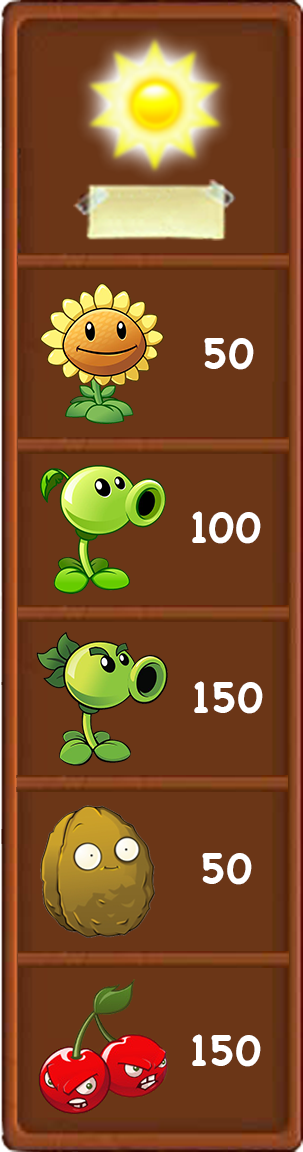
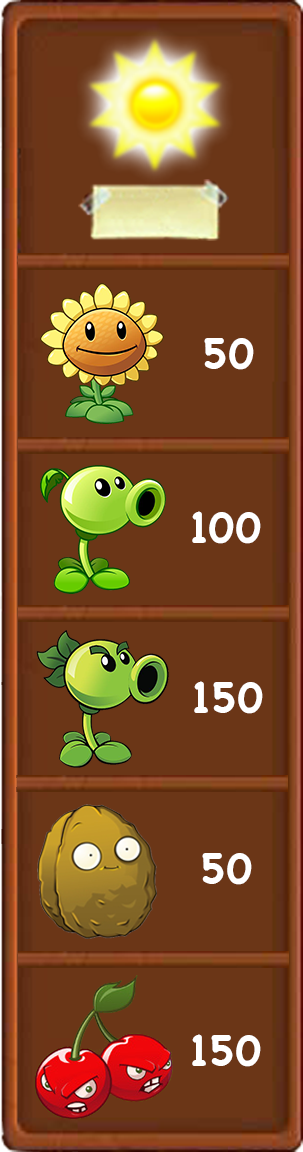
fix positions and more

diff --git a/src/World.java b/src/World.java
@@ -32,8 +32,8 @@ public class World extends JPanel implements ActionListener{
     //img: 0.background, 1.sun, 2.sunflower, 3.peashooter, 4.repeater, 5.sungif, 6.peagif, 7.repgif, 8.zombie, 9.zombief 
     //10.pea_p, 11.wasted, 12.try again, 13.sun_g, 14.pea_g, 15.rep_g, 16.win, 17.play again, 18.brain, 19.pea_r, 
     //20.zombief2, 21.shovel, 22.shovel1, 23.shovel2, 24.progress1, 25.progress2, 26.progress3, 27.progress4
-
-    //28.hugewave, 29.finalwave, 30.cherry, 31.powie, 32.cherry_g 33. Flying Zombie
+    //28.hugewave, 29.finalwave, 30.cherry, 31.powie, 32.cherry_g, 33.zombie_fly, 34.background_menu, 
+    //35.wallnut, 36.wallnut_g, 37.wallgif_full, 38.wallgif_half
     private Image[] img = new Image[39];
 
     private Toolkit t = Toolkit.getDefaultToolkit();
@@ -60,7 +60,7 @@ public class World extends JPanel implements ActionListener{
     public World(){
         timer = new Timer(25, this); //set up timer for 25 milliseconds
 
-        try{ //load image menu
+        try{ //load main menu
             img[0]=Toolkit.getDefaultToolkit().getImage(getClass().getResource("Assets/image/Menu.jpg"));
         }catch(Exception ex){
             ex.printStackTrace();
@@ -107,41 +107,27 @@ public class World extends JPanel implements ActionListener{
         super.paintComponent(g);
         
         if(!start){
+            //draw main menu
             g.drawImage(img[0], 0, 0, 1024, 625, this);
             
         }else{
-            
             Graphics2D g2 = (Graphics2D) g;
+
             //draw background
-            g.drawImage(img[0], 0, 0, 1024, 626, this);
-            g.drawImage(img[34], 20, 25, 150, 580, this);
+            g.drawImage(img[0], 0, 0, 1024, 625, this);
 
             //draw progress
             xp = Math.round((205.0f/Zombie.getMax())*Zombie.getN());
             yp = Math.round((190.0f/Zombie.getMax())*Zombie.getN());
-            g.drawImage(img[27], 498+205-xp, 586, xp, 16, this); //draw greenbar (max 205 pixels)
-            g.drawImage(img[26], 490, 570, 215, 40, this); //draw bar
+            g.drawImage(img[27], 498+205-xp, 588, xp, 16, this); //draw greenbar (max 205 pixels)
+            g.drawImage(img[26], 490, 572, 215, 40, this); //draw bar
             if(Zombie.getN() <= Zombie.getMax()-5){
-                g.drawImage(img[25], 489, 562, 261, 49, this); //draw flag
+                g.drawImage(img[25], 489, 564, 261, 49, this); //draw flag
             }else{ //raise flag for the last 5 zombies
-                g.drawImage(img[25], 489, 550+Math.round((12.0f/5)*(Zombie.getMax()-Zombie.getN())), 261, 49, this);
+                g.drawImage(img[25], 489, 552+Math.round((12.0f/5)*(Zombie.getMax()-Zombie.getN())), 261, 49, this);
             }
-            g.drawImage(img[24], 675-yp, 572, 35, 38, this); //draw zombie head (485 to 675; max 190 pixels)
+            g.drawImage(img[24], 675-yp, 574, 35, 38, this); //draw zombie head (485 to 675; max 190 pixels)
             
-            //draw black&white plant menu
-            if(player.getCredits()<150){ //suncredits <150
-                g.drawImage(img[15], 40, 433, rwidth+2, rheight+1, this); //draw repeater g
-                if(player.getCredits()<100){ //suncredits <100
-                    g.drawImage(img[14], 41, 320, pwidth+2, pheight, this); //draw peashooter g
-                    if(player.getCredits()<50){ //suncredits <50
-                        g.drawImage(img[13], 42, 196, swidth, sheight, this); //draw sunflower g
-                    }
-                }
-            }
-
-            //draw sunflower points
-            player.draw(g2);
-
             //draw plant
             Iterator<Plant<Integer>> itpl = plants.iterator(); 
             while (itpl.hasNext()){
@@ -155,8 +141,12 @@ public class World extends JPanel implements ActionListener{
                     plant.act();
 
                 }else if(plant.getType().equals(4)){ //wallnut gif
-                        g.drawImage(img[36], xp-(pwidth+2)/2, yp-(pheight+6)/2, pwidth+4, pheight+8, this);
-                        // g.drawImage(img[36], xp-(rwidth+20)/2, yp-(rheight+9)/2, rwidth+26, rheight+13, this);
+                    if(plant.getHealth()>=100){ //wallnut full life
+                        g.drawImage(img[37], xp-(pwidth+2)/2, yp-(pheight+4)/2, pwidth+2, pheight+5, this);
+                    }else{ //wallnut half life
+                        g.drawImage(img[38], xp-(pwidth+2)/2, yp-(pheight+4)/2, pwidth+2, pheight+5, this);
+                    }
+
                 }else if(plant.getType().equals(5)){ //cherrybomb
                     if(plant.getCw()<110){ //enlarge
                         g.drawImage(img[30], xp-plant.getCw()/2-4, yp-plant.getCh()/2-4, plant.getCw(), plant.getCh(), this);
@@ -169,6 +159,7 @@ public class World extends JPanel implements ActionListener{
                             plant.cherrybomb(); //play cherrybomb sound
                             plant.setExplode(); //set explode to true
                             plant.startTimer(); //start waiting thread
+                            Plant.setOcc(i, j); //set spot to empty
                             
                             //kill zombie
                             Iterator<Zombie> itz = zombies.iterator(); 
@@ -182,9 +173,9 @@ public class World extends JPanel implements ActionListener{
                             }
                         }
                         if(plant.isTcherryAlive()){ //waiting thread running
+                            //draw explosion
                             g.drawImage(img[31], xp-150, yp-125, 300, 250, this);
                         }else{ //remove explosion
-                            Plant.setOcc(i, j); //set spot to empty
                             itpl.remove();
                         }
                     }      
@@ -226,7 +217,9 @@ public class World extends JPanel implements ActionListener{
                 Zombie zombie=itz.next();
                 
                 //if (zombie intersects plant) -> eat; else -> move
-                zombie.attack();
+                if(zombie.getType()!=3){ //not flying zombie
+                    zombie.attack();
+                }
 
                 fxp=zombie.getCoorX(); //get zombie x coordinate (float)
                 yp=zombie.getLane(); //get zombie lane (int)
@@ -242,6 +235,7 @@ public class World extends JPanel implements ActionListener{
                     }
                 }else if(zombie.getType()==3){ //flying zombie
                     g.drawImage(img[33], Math.round(fxp), zombie.getCoorY()-10, 103, 120, this);
+                    zombie.move();
                 }
 
                 //check if zombie intersects pea
@@ -299,14 +293,32 @@ public class World extends JPanel implements ActionListener{
                 win=true;
             }
 
+            //draw plant menu
+            g.drawImage(img[34], 15, 22, 150, 580, this);
+
+            //draw sunflower points
+            player.draw(g2);
+
+            //draw black&white plant menu
+            if(player.getCredits()<150){ //suncredits <150
+                g.drawImage(img[15], 33, 339, rwidth+2, rheight+2, this); //draw repeater g
+                g.drawImage(img[32], 30, 512, rwidth+7, rheight+6, this); //draw cherrybomb g
+                if(player.getCredits()<100){ //suncredits <100
+                    g.drawImage(img[14], 34, 255, pwidth+2, pheight, this); //draw peashooter g
+                    if(player.getCredits()<50){ //suncredits <50
+                        g.drawImage(img[13], 34, 164, swidth, sheight, this); //draw sunflower g
+                        g.drawImage(img[36], 32, 426, swidth-1, sheight-2, this); //draw wallnut g
+                    }
+                }
+            }
+
             //draw shovel
             if(!player.getShovel()){ //if shovel is idle
-                g.drawImage(img[22], 173, 549, 70, 70, this);
-                // g.drawImage(image, x, y, width, length, this);
+                g.drawImage(img[22], 171, 548, 70, 70, this);
             }else{ //if shovel is taken
-                g.drawImage(img[23], 173, 549, 70, 70, this);
+                g.drawImage(img[23], 171, 548, 70, 70, this);
                 //draw shovel following mouse position
-                g.drawImage(img[21], mouse.getX(), mouse.getY()-70, 70, 70, this);
+                g.drawImage(img[21], mouse.getX(), mouse.getY()-70, 68, 70, this);
             }
 
             //draw transparent plant following mouse position
@@ -316,19 +328,19 @@ public class World extends JPanel implements ActionListener{
                 g2.setComposite(AlphaComposite.SrcOver.derive(1f)); //set alpha back to 1
             }else if(player.getChoice()==2){ //peashooter
                 g2.setComposite(AlphaComposite.SrcOver.derive(0.7f));
-                g2.drawImage(img[3], mouse.getX()-pwidth/2, mouse.getY()-pheight/2, pwidth, pheight, this);
+                g2.drawImage(img[3], mouse.getX()-pwidth/2+1, mouse.getY()-pheight/2, pwidth+2, pheight, this);
                 g2.setComposite(AlphaComposite.SrcOver.derive(1f));
             }else if(player.getChoice()==3){ //repeater
                 g2.setComposite(AlphaComposite.SrcOver.derive(0.7f));
-                g2.drawImage(img[4], mouse.getX()-(rwidth+8)/2, mouse.getY()-(rheight+8)/2, rwidth+4, rheight+4, this);
+                g2.drawImage(img[4], mouse.getX()-rwidth/2+2, mouse.getY()-rheight/2+2, rwidth+2, rheight+2, this);
                 g2.setComposite(AlphaComposite.SrcOver.derive(1f));
             }else if(player.getChoice()==4){ //wallnut
                 g2.setComposite(AlphaComposite.SrcOver.derive(0.7f));
-                g2.drawImage(img[35], mouse.getX()-(rwidth+8)/2, mouse.getY()-(rheight+8)/2, rwidth+4, rheight+4, this);
+                g2.drawImage(img[35], mouse.getX()-(pwidth+2)/2, mouse.getY()-(pheight+6)/2, pwidth-1, pheight+3, this);
                 g2.setComposite(AlphaComposite.SrcOver.derive(1f));
             }else if(player.getChoice()==5){ //cherrybomb
                 g2.setComposite(AlphaComposite.SrcOver.derive(0.7f));
-                g2.drawImage(img[30], mouse.getX()-40, mouse.getY()-41, 80, 82, this);
+                g2.drawImage(img[30], mouse.getX()-37, mouse.getY()-38, 74, 76, this);
                 g2.setComposite(AlphaComposite.SrcOver.derive(1f));
             }
             
@@ -531,9 +543,11 @@ public class World extends JPanel implements ActionListener{
                             A: for(i=0;i<5;i++){
                                 for(j=0;j<9;j++){
                                     if(field[i][j].contains(e.getPoint())){ //plant the plant in field
-                                        if(plant.put(i,j,player.getChoice())){
+                                        if(plant.put(i,j,player.getChoice())){ //empty spot
                                             Audio.plant(); //play plant sound
                                             player.plant();
+                                        }else{ //plant exist in the spot
+                                            Audio.seedlift(); //play seedlift sound
                                         }
                                         player.setChoice(0);
                                         break A;
@@ -570,7 +584,7 @@ public class World extends JPanel implements ActionListener{
                                             }
                                         }
                                     }
-                                    break A; //field empty
+                                    break A; //empty spot
                                 }
                             }
                         }
@@ -644,9 +658,9 @@ public class World extends JPanel implements ActionListener{
             img[33]=t.getImage(getClass().getResource("Assets/gif/Zombie_fly.gif"));
             img[34]=t.getImage(getClass().getResource("Assets/image/Background_menu.png"));
             img[35]=t.getImage(getClass().getResource("Assets/image/Wallnut.png"));
-            img[36]=t.getImage(getClass().getResource("Assets/gif/Walnut_full_life.gif"));
-            img[37]=t.getImage(getClass().getResource("Assets/gif/Walnut_half_life.gif"));
-            img[38]=t.getImage(getClass().getResource("Assets/gif/Walnut_dead.gif"));
+            img[36]=t.getImage(getClass().getResource("Assets/image/Wallnut_g.png"));
+            img[37]=t.getImage(getClass().getResource("Assets/gif/Wallnut_full.gif"));
+            img[38]=t.getImage(getClass().getResource("Assets/gif/Wallnut_half.gif"));
         }catch(Exception ex){
             ex.printStackTrace();
             JOptionPane.showMessageDialog(null, "Cannot open image!"); //show error dialog
@@ -661,7 +675,6 @@ public class World extends JPanel implements ActionListener{
         rec[6] = new Rectangle(30, 425, pwidth+70, pheight+15); //wallnut
         rec[7] = new Rectangle(30, 510, pwidth+70, pheight+20); //cherrybomb
         rec[2] = new Rectangle(0, 0, 1024, 626); //end
-        // Rectangle(x, y, width, height); 
 
         //create ellipse for shovel
         e_shovel = new Ellipse2D.Float(173, 549, 70, 70);

diff --git a/src/Zombie.java b/src/Zombie.java
@@ -27,14 +27,13 @@ public class Zombie extends Actor implements Comparable<Zombie>{
             zombieDamage=10;
             zombieSpeed=0.3f;
             // zombieSpeed=5f;
-        }else if(type==2) { //Football zombie
+        }else if(type==2){ //Football zombie
             super.health=80;
             zombieDamage=15;
             zombieSpeed=0.55f;
         } else if (type==3){//Flying zombie
 	        super.health=65;
-            zombieDamage=15;
-            zombieSpeed=0.4f;
+            zombieSpeed=0.45f;
         }
     }
 
@@ -118,10 +117,10 @@ public class Zombie extends Actor implements Comparable<Zombie>{
         int c=9;
         if(type==2){ //football zombie
             A: for(int i=8;i>=1;i--){
-                if(coorX<=column[i]-17 && coorX>column[i-1]-17){
+                if(coorX<=column[i]-18 && coorX>column[i-1]-18){
                     c=i;
                     break A;
-                }else if(coorX<=column[0]-17){
+                }else if(coorX<=column[0]-18){
                     c=0;
                 }
             }
@@ -140,10 +139,19 @@ public class Zombie extends Actor implements Comparable<Zombie>{
    
     public int getColumnEat(){ //convert x coordinate to field column for attacking plant
         int c=9;
-        A: for(int i=8;i>=0;i--){
-            if(coorX<=column[i] && coorX>column[i]-60){
-                c=i;
-                break A;
+        if(type==2){ //football zombie
+            A: for(int i=8;i>=0;i--){
+                if(coorX<=column[i]-18 && coorX>column[i]-72){
+                    c=i;
+                    break A;
+                }
+            }
+        }else{
+            A: for(int i=8;i>=0;i--){
+                if(coorX<=column[i] && coorX>column[i]-60){
+                    c=i;
+                    break A;
+                }
             }
         }
         return c;
@@ -158,7 +166,7 @@ public class Zombie extends Actor implements Comparable<Zombie>{
     public static int setType(){
         if(n<=3){ //easy
             timer.setDelay(interval*550);
-            return 3; //normal zombie
+            return 2; //normal zombie
         }else if(n<=6){ //medium
             timer.setDelay(interval*200);
             if((int)(Math.random() * 4)==2){ //generate zombie type from 0 to 3
@@ -188,7 +196,7 @@ public class Zombie extends Actor implements Comparable<Zombie>{
     
     public static void startWave(){ //start wave
         Audio.wave(); //play wave audio
-        timer.setInitialDelay(6000);
+        timer.setInitialDelay(5000);
         timer.start();
         World.setWave(1);
     }
@@ -206,7 +214,8 @@ public class Zombie extends Actor implements Comparable<Zombie>{
     public void attack(){
         //check if zombie intersects plant
         yp=getColumnEat();
-        if(Plant.getOcc(lane, yp)!=0 && Plant.getOcc(lane, yp)!=5){ //intersect plant (excluding cherrybomb)
+        if(Plant.getOcc(lane, yp)!=0){ //intersect plant
+        // if(Plant.getOcc(lane, yp)!=0 && Plant.getOcc(lane, yp)!=5){ //intersect plant (excluding cherrybomb)
             A: for(Plant plant: World.plants){
                 if(plant.getX()==lane && plant.getY()==yp){
                     timer2.start();
@@ -220,12 +229,16 @@ public class Zombie extends Actor implements Comparable<Zombie>{
                 }
             }
         }else{ //field empty
-            coorX-=zombieSpeed; //move
+            move();
         }
+    }
+    public void move(){
+        coorX-=zombieSpeed; //move
     }
     public void stopEat(){
         timer2.stop(); //stop eating plant
     }
+    
 
     //Audio
     public static void playAudio(){

diff --git a/src/Player.java b/src/Player.java
@@ -34,13 +34,13 @@ public class Player {
         FontMetrics metrics = g.getFontMetrics(font); //font width and height
         //to animate sunflower points change
         if(sunCredits==temp){
-            g.drawString(Integer.toString(temp), 74-(metrics.stringWidth(Integer.toString(temp))/2), 165);
+            g.drawString(Integer.toString(temp), 91-(metrics.stringWidth(Integer.toString(temp))/2), 136);
         }else if(sunCredits<temp){
             temp-=5;
-            g.drawString(Integer.toString(temp), 74-(metrics.stringWidth(Integer.toString(temp))/2), 165);
+            g.drawString(Integer.toString(temp), 91-(metrics.stringWidth(Integer.toString(temp))/2), 136);
         }else{ //sunCredits>temp
             temp+=5;
-            g.drawString(Integer.toString(temp), 74-(metrics.stringWidth(Integer.toString(temp))/2), 165);
+            g.drawString(Integer.toString(temp), 91-(metrics.stringWidth(Integer.toString(temp))/2), 136);
         }
     }
 

diff --git a/src/Plant.java b/src/Plant.java
@@ -28,6 +28,7 @@ public class Plant<T> extends Actor{
         }else if(type.equals(4)){ //Wallnut
             super.health = 200;
         }else if(type.equals(5)){ //Cherrybomb
+            super.health = 200;
             tcherry = new Thread(new CherryWaits()); 
             try{
                 clip = AudioSystem.getClip();
@@ -69,6 +70,7 @@ public class Plant<T> extends Actor{
     public int getX(){return x;}
     public int getY(){return y;}
     public T getType(){return type;}
+    public int getHealth(){return health;}
     public boolean isThreaten(){return threaten;}
     public static int getOcc(int x, int y){return occ[x][y];}
     public static Point getCoor(int x, int y){return coor[x][y];}
